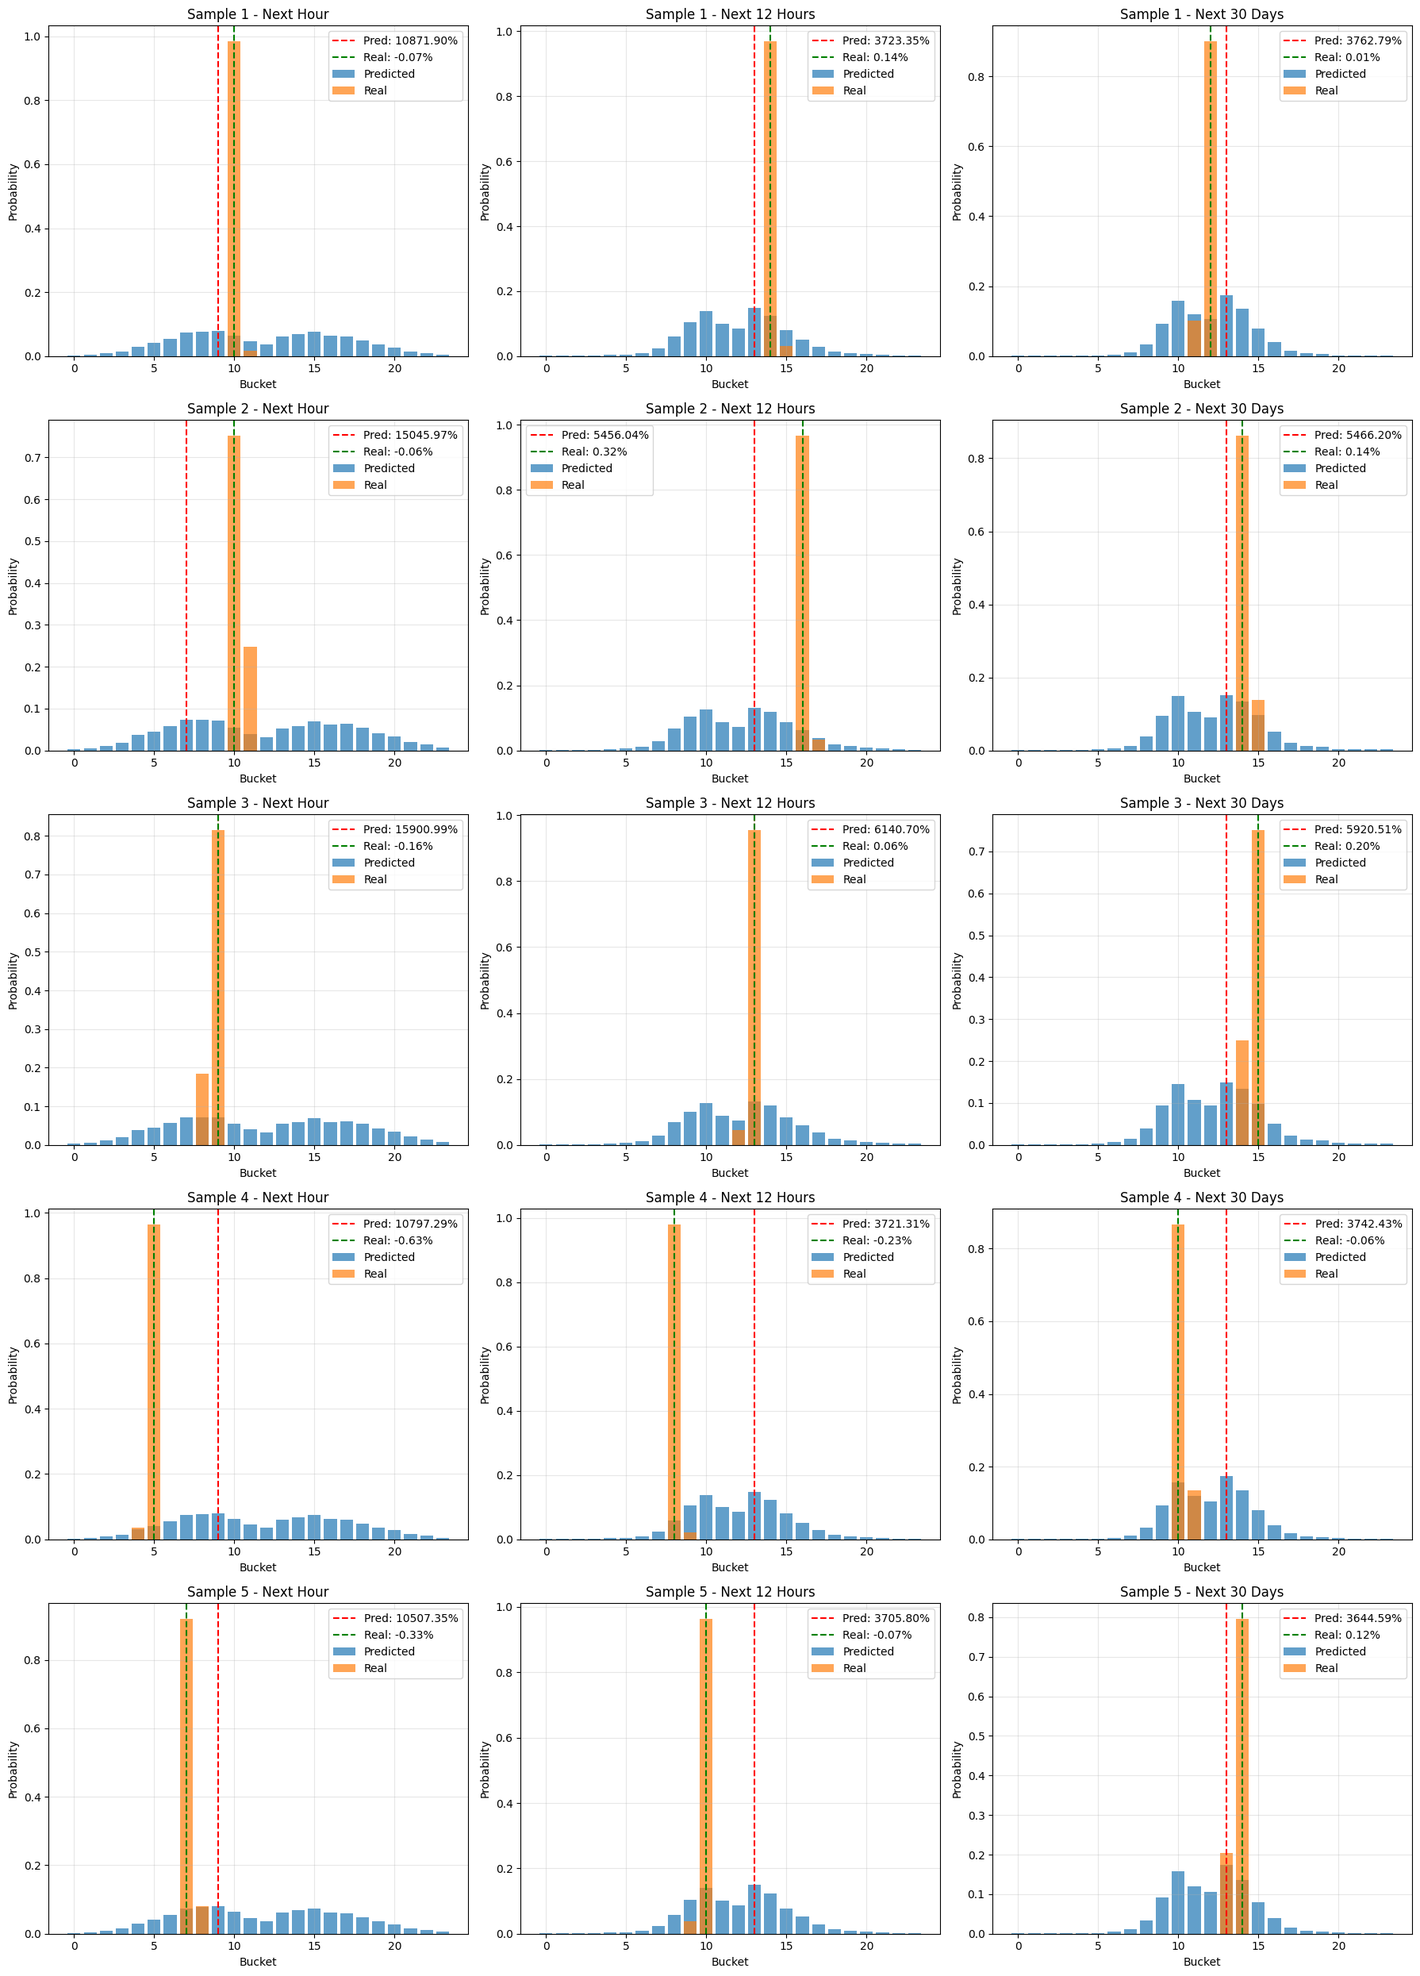
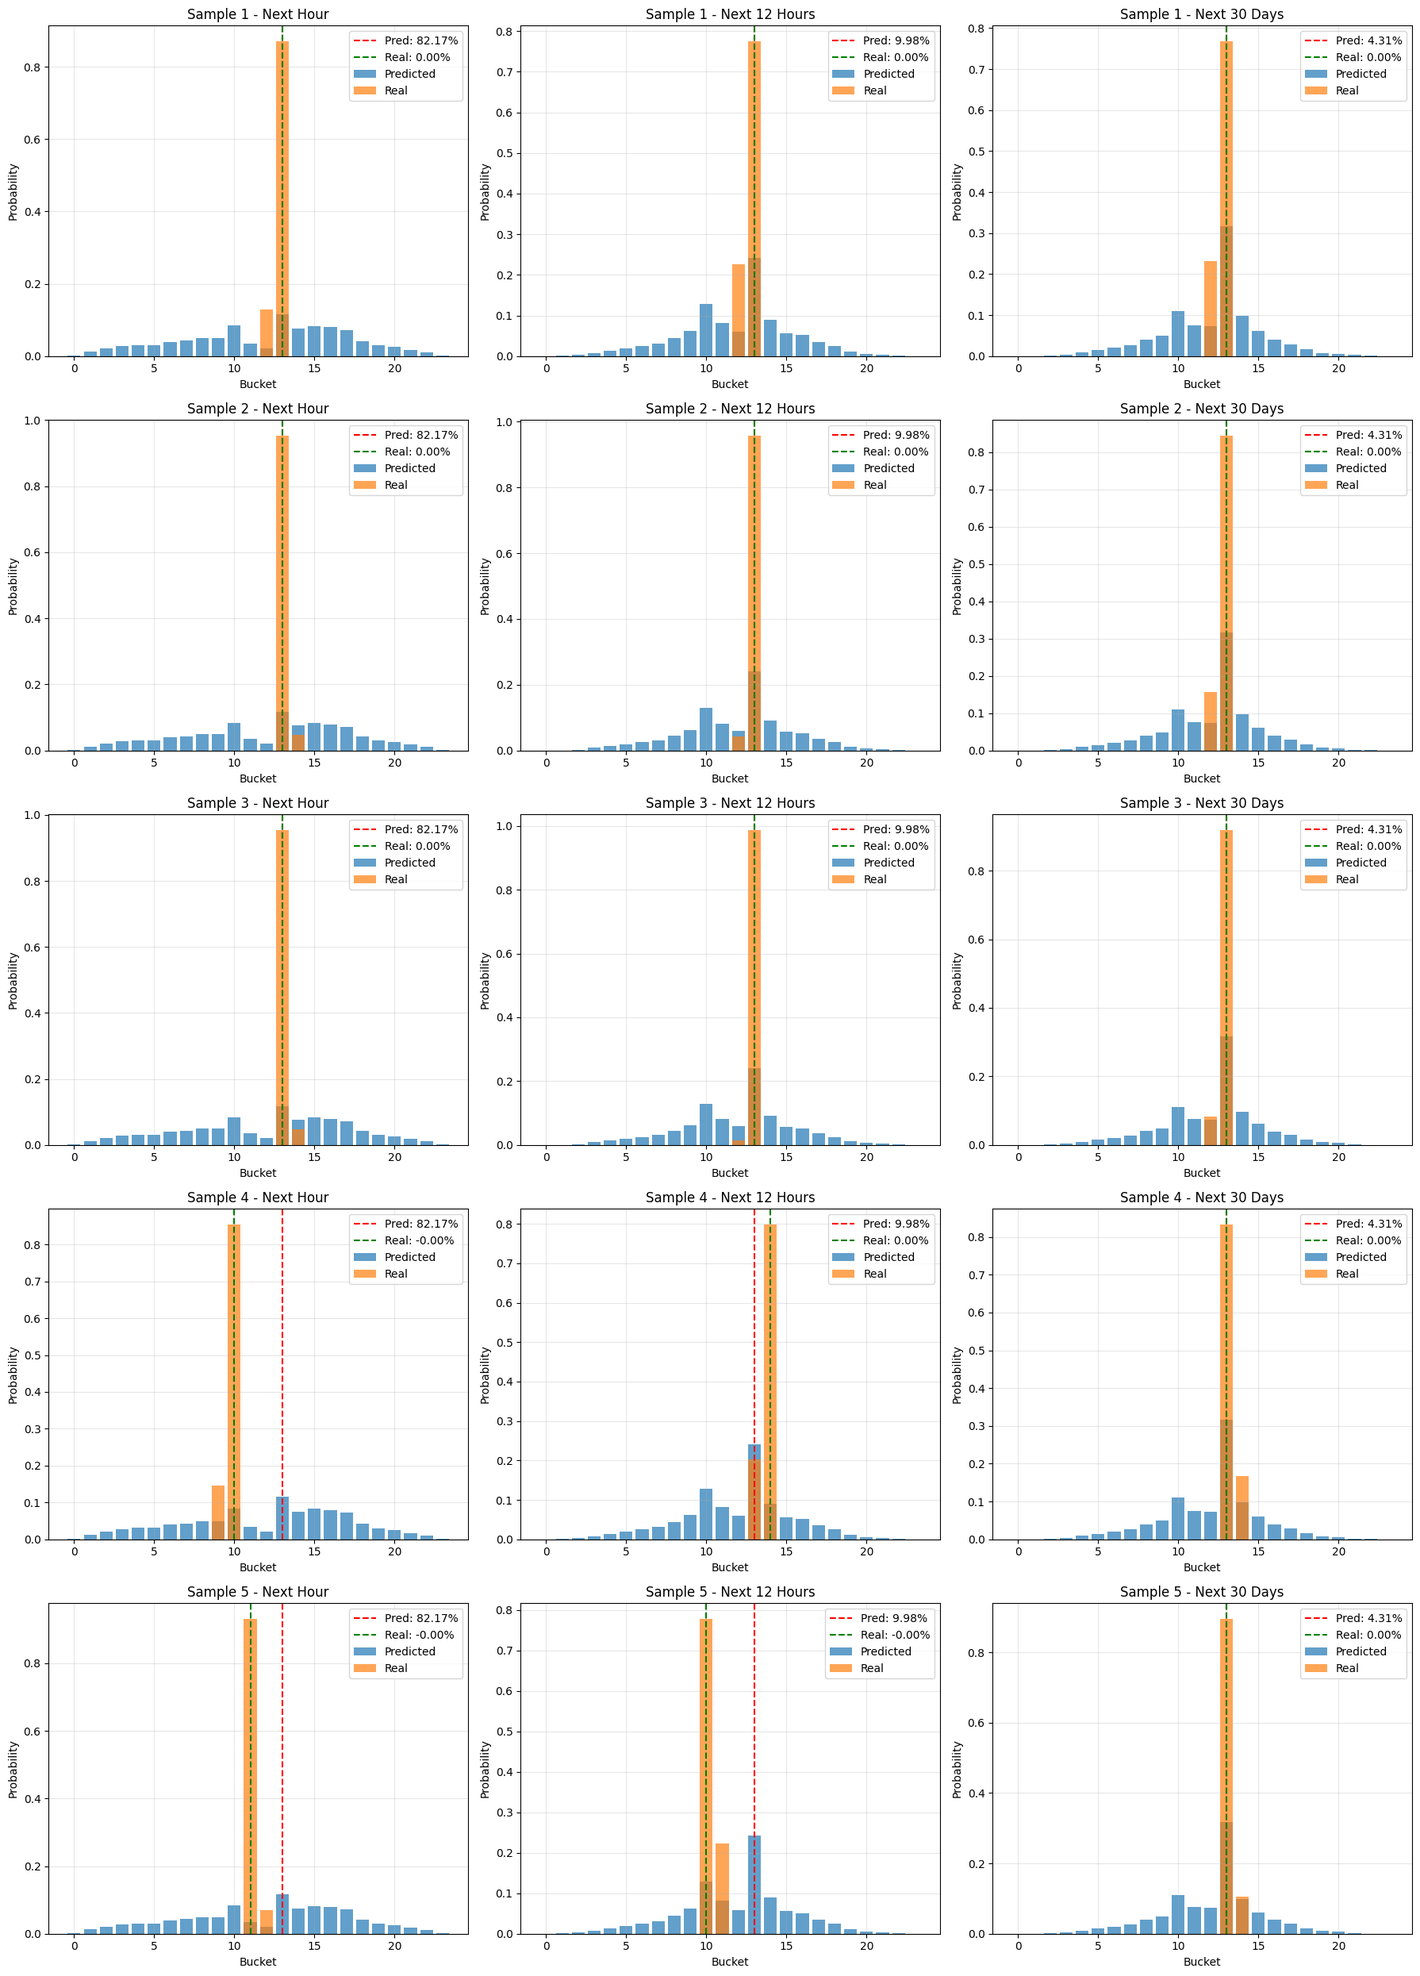
Refactor training set creation and model architecture for improved predictions and flexibility

diff --git a/newTradly/train.py b/newTradly/train.py
@@ -5,11 +5,24 @@ import numpy as np
 import wandb
 from wandb.integration.keras import WandbMetricsLogger, WandbModelCheckpoint
 from createTraningSet import create_training_set
-from params import WINDOW_SIZE, BATCH_SIZE, EPOCHS, LEARNING_RATE, NEXT_PRICE_PREDICTION, NEXT_PRICE_PREDICTION_1, NEXT_PRICE_PREDICTION_2, LSTM_LAYERS, DROPOUT_RATE, DENSE_ACTIVATION
-import json
+from params import WINDOW_SIZE, BATCH_SIZE, EPOCHS, LEARNING_RATE, LSTM_LAYERS, DROPOUT_RATE, MODEL
 import matplotlib.pyplot as plt
 
-def create_lstm_model(input_shape, num_buckets):
+gpus = tf.config.list_physical_devices('GPU')
+if gpus:
+    try:
+        for gpu in gpus:
+            tf.config.experimental.set_memory_growth(gpu, True)
+        
+        tf.config.set_logical_device_configuration(
+            gpus[0],
+            [tf.config.LogicalDeviceConfiguration(memory_limit=20480)]
+        )
+        print(f"GPU memory growth enabled for {len(gpus)} GPU(s)")
+    except RuntimeError as e:
+        print(f"GPU configuration error: {e}")
+
+def create_lstm_model(input_shape):
     inputs = keras.Input(shape=input_shape)
     
     x = inputs
@@ -18,24 +31,74 @@ def create_lstm_model(input_shape, num_buckets):
         x = layers.LSTM(units, return_sequences=return_sequences)(x)
         x = layers.Dropout(DROPOUT_RATE)(x)
     
-    output_next = layers.Dense(num_buckets, activation=DENSE_ACTIVATION, name='next')(x)
-    output_next_1 = layers.Dense(num_buckets, activation=DENSE_ACTIVATION, name='next_1')(x)
-    output_next_2 = layers.Dense(num_buckets, activation=DENSE_ACTIVATION, name='next_2')(x)
+    output_next = layers.Dense(1, name='next')(x)
+    output_half = layers.Dense(1, name='half')(x)
+    output_full = layers.Dense(1, name='full')(x)
     
-    model = keras.Model(inputs=inputs, outputs=[output_next, output_next_1, output_next_2])
+    model = keras.Model(inputs=inputs, outputs=[output_next, output_half, output_full])
     
     return model
 
-def distribution_to_value(distribution, bucket_config):
-    buckets = np.array(bucket_config['close']['buckets'])
-    bucket_centers = (buckets[:-1] + buckets[1:]) / 2
-    predicted_value = np.sum(distribution * bucket_centers)
-    return predicted_value
-
-def create_prediction_charts(model, X_test, y_test_next, y_test_next_1, y_test_next_2):
-    bucket_config = json.load(open('bucket_config.json'))
+def create_gru_model(input_shape):
+    inputs = keras.Input(shape=input_shape)
     
-    pred_next, pred_next_1, pred_next_2 = model.predict(X_test, verbose=0)
+    x = inputs
+    for i, units in enumerate(LSTM_LAYERS):
+        return_sequences = i < len(LSTM_LAYERS) - 1
+        x = layers.GRU(units, return_sequences=return_sequences)(x)
+        x = layers.Dropout(DROPOUT_RATE)(x)
+    
+    output_next = layers.Dense(1, name='next')(x)
+    output_half = layers.Dense(1, name='half')(x)
+    output_full = layers.Dense(1, name='full')(x)
+    
+    model = keras.Model(inputs=inputs, outputs=[output_next, output_half, output_full])
+    
+    return model
+
+def create_transformer_model(input_shape):
+    inputs = keras.Input(shape=input_shape)
+    
+    x = layers.Dense(LSTM_LAYERS[0])(inputs)
+    
+    for i, units in enumerate(LSTM_LAYERS):
+        num_heads = min(8, units // 64)
+        if num_heads < 1:
+            num_heads = 1
+        
+        attn_output = layers.MultiHeadAttention(
+            num_heads=num_heads,
+            key_dim=units // num_heads,
+            dropout=DROPOUT_RATE
+        )(x, x)
+        attn_output = layers.Dropout(DROPOUT_RATE)(attn_output)
+        x = layers.LayerNormalization(epsilon=1e-6)(x + attn_output)
+        
+        ffn = keras.Sequential([
+            layers.Dense(units * 4, activation='relu'),
+            layers.Dropout(DROPOUT_RATE),
+            layers.Dense(units)
+        ])
+        ffn_output = ffn(x)
+        ffn_output = layers.Dropout(DROPOUT_RATE)(ffn_output)
+        x = layers.LayerNormalization(epsilon=1e-6)(x + ffn_output)
+        
+        if i < len(LSTM_LAYERS) - 1:
+            x = layers.Dense(LSTM_LAYERS[i + 1])(x)
+    
+    x = layers.GlobalAveragePooling1D()(x)
+    x = layers.Dropout(DROPOUT_RATE)(x)
+    
+    output_next = layers.Dense(1, name='next')(x)
+    output_half = layers.Dense(1, name='half')(x)
+    output_full = layers.Dense(1, name='full')(x)
+    
+    model = keras.Model(inputs=inputs, outputs=[output_next, output_half, output_full])
+    
+    return model
+
+def create_prediction_charts(model, X_test, y_test_next, y_test_half, y_test_full):
+    pred_next, pred_half, pred_full = model.predict(X_test, verbose=0)
     
     num_samples = min(5, len(X_test))
     fig, axes = plt.subplots(num_samples, 3, figsize=(18, 5 * num_samples))
@@ -43,45 +106,19 @@ def create_prediction_charts(model, X_test, y_test_next, y_test_next_1, y_test_n
         axes = axes.reshape(1, -1)
     
     for sample_idx in range(num_samples):
-        pred_val_next = distribution_to_value(pred_next[sample_idx], bucket_config)
-        pred_val_next_1 = distribution_to_value(pred_next_1[sample_idx], bucket_config)
-        pred_val_next_2 = distribution_to_value(pred_next_2[sample_idx], bucket_config)
-        
-        real_val_next = distribution_to_value(y_test_next[sample_idx], bucket_config)
-        real_val_next_1 = distribution_to_value(y_test_next_1[sample_idx], bucket_config)
-        real_val_next_2 = distribution_to_value(y_test_next_2[sample_idx], bucket_config)
-        
-        buckets = np.array(bucket_config['close']['buckets'])
-        bucket_centers = (buckets[:-1] + buckets[1:]) / 2
-        
-        axes[sample_idx, 0].bar(range(len(pred_next[sample_idx])), pred_next[sample_idx], alpha=0.7, label='Predicted')
-        axes[sample_idx, 0].bar(range(len(y_test_next[sample_idx])), y_test_next[sample_idx], alpha=0.7, label='Real')
-        axes[sample_idx, 0].axvline(np.argmax(pred_next[sample_idx]), color='r', linestyle='--', label=f'Pred: {pred_val_next:.2f}%')
-        axes[sample_idx, 0].axvline(np.argmax(y_test_next[sample_idx]), color='g', linestyle='--', label=f'Real: {real_val_next:.2f}%')
-        axes[sample_idx, 0].set_title(f'Sample {sample_idx + 1} - Next Hour')
-        axes[sample_idx, 0].set_xlabel('Bucket')
-        axes[sample_idx, 0].set_ylabel('Probability')
-        axes[sample_idx, 0].legend()
+        axes[sample_idx, 0].bar(['Predicted', 'Real'], [pred_next[sample_idx][0], y_test_next[sample_idx]], alpha=0.7)
+        axes[sample_idx, 0].set_title(f'Sample {sample_idx + 1} - Next Value')
+        axes[sample_idx, 0].set_ylabel('Cumsum Price Change')
         axes[sample_idx, 0].grid(True, alpha=0.3)
         
-        axes[sample_idx, 1].bar(range(len(pred_next_1[sample_idx])), pred_next_1[sample_idx], alpha=0.7, label='Predicted')
-        axes[sample_idx, 1].bar(range(len(y_test_next_1[sample_idx])), y_test_next_1[sample_idx], alpha=0.7, label='Real')
-        axes[sample_idx, 1].axvline(np.argmax(pred_next_1[sample_idx]), color='r', linestyle='--', label=f'Pred: {pred_val_next_1:.2f}%')
-        axes[sample_idx, 1].axvline(np.argmax(y_test_next_1[sample_idx]), color='g', linestyle='--', label=f'Real: {real_val_next_1:.2f}%')
-        axes[sample_idx, 1].set_title(f'Sample {sample_idx + 1} - Next 12 Hours')
-        axes[sample_idx, 1].set_xlabel('Bucket')
-        axes[sample_idx, 1].set_ylabel('Probability')
-        axes[sample_idx, 1].legend()
+        axes[sample_idx, 1].bar(['Predicted', 'Real'], [pred_half[sample_idx][0], y_test_half[sample_idx]], alpha=0.7)
+        axes[sample_idx, 1].set_title(f'Sample {sample_idx + 1} - Half Window')
+        axes[sample_idx, 1].set_ylabel('Cumsum Price Change')
         axes[sample_idx, 1].grid(True, alpha=0.3)
         
-        axes[sample_idx, 2].bar(range(len(pred_next_2[sample_idx])), pred_next_2[sample_idx], alpha=0.7, label='Predicted')
-        axes[sample_idx, 2].bar(range(len(y_test_next_2[sample_idx])), y_test_next_2[sample_idx], alpha=0.7, label='Real')
-        axes[sample_idx, 2].axvline(np.argmax(pred_next_2[sample_idx]), color='r', linestyle='--', label=f'Pred: {pred_val_next_2:.2f}%')
-        axes[sample_idx, 2].axvline(np.argmax(y_test_next_2[sample_idx]), color='g', linestyle='--', label=f'Real: {real_val_next_2:.2f}%')
-        axes[sample_idx, 2].set_title(f'Sample {sample_idx + 1} - Next 30 Days')
-        axes[sample_idx, 2].set_xlabel('Bucket')
-        axes[sample_idx, 2].set_ylabel('Probability')
-        axes[sample_idx, 2].legend()
+        axes[sample_idx, 2].bar(['Predicted', 'Real'], [pred_full[sample_idx][0], y_test_full[sample_idx]], alpha=0.7)
+        axes[sample_idx, 2].set_title(f'Sample {sample_idx + 1} - Full Window')
+        axes[sample_idx, 2].set_ylabel('Cumsum Price Change')
         axes[sample_idx, 2].grid(True, alpha=0.3)
     
     plt.tight_layout()
@@ -99,30 +136,39 @@ def train():
             "batch_size": BATCH_SIZE,
             "epochs": EPOCHS,
             "learning_rate": LEARNING_RATE,
-            "architecture": "LSTM",
-            "optimizer": "adam"
+            "architecture": MODEL,
+            "optimizer": "adamw",
+            "layers": LSTM_LAYERS,
+            "dropout_rate": DROPOUT_RATE
         }
     )
     
     print("Generating training data...")
-    X_train, (y_next, y_next_1, y_next_2) = create_training_set(100_000, 15_000)
+    X_train, (y_next, y_half, y_full) = create_training_set(25_000, 5_000)
     print(f"Training data shape: {X_train.shape}")
-    print(f"Target shapes: {y_next.shape}, {y_next_1.shape}, {y_next_2.shape}")
+    print(f"Target shapes: {y_next.shape}, {y_half.shape}, {y_full.shape}")
     
     print("\nGenerating validation data...")
-    X_val, (y_val_next, y_val_next_1, y_val_next_2) = create_training_set(2000, 20)
+    X_val, (y_val_next, y_val_half, y_val_full) = create_training_set(2000, 20)
     
-    num_buckets = y_next.shape[1]
     input_shape = (WINDOW_SIZE, 5)
     
-    print(f"\nCreating model with input shape {input_shape} and {num_buckets} buckets...")
-    model = create_lstm_model(input_shape, num_buckets)
+    print(f"\nCreating {MODEL} model with input shape {input_shape}...")
     
-    optimizer = keras.optimizers.Adam(learning_rate=LEARNING_RATE)
+    if MODEL == "LSTM":
+        model = create_lstm_model(input_shape)
+    elif MODEL == "GRU":
+        model = create_gru_model(input_shape)
+    elif MODEL == "Transformer":
+        model = create_transformer_model(input_shape)
+    else:
+        raise ValueError(f"Unknown model type: {MODEL}")
+    
+    optimizer = keras.optimizers.AdamW(learning_rate=LEARNING_RATE)
     model.compile(
         optimizer=optimizer,
-        loss={'next': 'categorical_crossentropy', 'next_1': 'categorical_crossentropy', 'next_2': 'categorical_crossentropy'},
-        metrics={'next': ['accuracy'], 'next_1': ['accuracy'], 'next_2': ['accuracy']}
+        loss={'next': 'mse', 'half': 'mse', 'full': 'mse'},
+        metrics={'next': ['mae'], 'half': ['mae'], 'full': ['mae']}
     )
     
     model.summary()
@@ -146,8 +192,8 @@ def train():
     print("\nStarting training...")
     history = model.fit(
         X_train,
-        {'next': y_next, 'next_1': y_next_1, 'next_2': y_next_2},
-        validation_data=(X_val, {'next': y_val_next, 'next_1': y_val_next_1, 'next_2': y_val_next_2}),
+        {'next': y_next, 'half': y_half, 'full': y_full},
+        validation_data=(X_val, {'next': y_val_next, 'half': y_val_half, 'full': y_val_full}),
         batch_size=BATCH_SIZE,
         epochs=EPOCHS,
         callbacks=callbacks,
@@ -158,7 +204,7 @@ def train():
     print("\nTraining complete. Model saved.")
     
     print("\nGenerating prediction charts...")
-    create_prediction_charts(model, X_val, y_val_next, y_val_next_1, y_val_next_2)
+    create_prediction_charts(model, X_val, y_val_next, y_val_half, y_val_full)
     
     wandb.finish()
 

diff --git a/newTradly/createTraningSet.py b/newTradly/createTraningSet.py
@@ -1,55 +1,13 @@
 import json
 import numpy as np
 import os
-from params import WINDOW_SIZE, NEXT_PRICE_PREDICTION, NEXT_PRICE_PREDICTION_1, NEXT_PRICE_PREDICTION_2
-
-def import_bucket_config(file_path='bucket_config.json'):
-    with open(file_path, 'r') as f:
-        bucket_config = json.load(f)
-    return bucket_config
-
-def value_to_distribution(value, buckets):
-    num_buckets = len(buckets) - 1
-    distribution = np.zeros(num_buckets)
-    
-    bucket_idx = np.digitize(value, buckets) - 1
-    bucket_idx = np.clip(bucket_idx, 0, num_buckets - 1)
-    
-    if bucket_idx == 0:
-        lower_bound = buckets[0]
-        upper_bound = buckets[1]
-    elif bucket_idx == num_buckets - 1:
-        lower_bound = buckets[-2]
-        upper_bound = buckets[-1]
-    else:
-        lower_bound = buckets[bucket_idx]
-        upper_bound = buckets[bucket_idx + 1]
-    
-    bucket_range = upper_bound - lower_bound
-    if bucket_range > 0:
-        position = (value - lower_bound) / bucket_range
-        position = np.clip(position, 0, 1)
-    else:
-        position = 0.5
-    
-    distribution[bucket_idx] = 1.0 - abs(position - 0.5) * 0.5
-    
-    if position < 0.5 and bucket_idx > 0:
-        distribution[bucket_idx - 1] = abs(position - 0.5) * 0.5
-    elif position > 0.5 and bucket_idx < num_buckets - 1:
-        distribution[bucket_idx + 1] = abs(position - 0.5) * 0.5
-    
-    distribution = distribution / distribution.sum()
-    
-    return distribution
+from params import WINDOW_SIZE
 
 def create_training_set(number_of_samples: int, number_of_files: int):
-    bucket_config = import_bucket_config()
-    
     X_samples = []
     y_next = []
-    y_next_1 = []
-    y_next_2 = []
+    y_half = []
+    y_full = []
     
     file_list = [f for f in os.listdir('tickerData') if f.endswith('.json')]
     samples_per_file = number_of_samples // number_of_files
@@ -81,12 +39,12 @@ def create_training_set(number_of_samples: int, number_of_files: int):
         low_prices = low_prices[:min_len]
         volume_data = volume_data[:min_len]
         
-        min_length = WINDOW_SIZE + NEXT_PRICE_PREDICTION_2
+        min_length = WINDOW_SIZE * 2
         if min_len < min_length:
             continue
         
         files_processed += 1
-        max_start_index = min_len - WINDOW_SIZE - NEXT_PRICE_PREDICTION_2
+        max_start_index = min_len - WINDOW_SIZE * 2
         
         if max_start_index <= 0:
             continue
@@ -104,37 +62,31 @@ def create_training_set(number_of_samples: int, number_of_files: int):
             X_sample = np.stack([x_close, x_open, x_high, x_low, x_volume], axis=-1)
             X_samples.append(X_sample)
             
-            y_sum = close_prices[end_index:end_index + NEXT_PRICE_PREDICTION].sum()
-            y_sum_1 = close_prices[end_index:end_index + int(NEXT_PRICE_PREDICTION_1)].sum()
-            y_sum_2 = close_prices[end_index:end_index + int(NEXT_PRICE_PREDICTION_2)].sum()
+            half_window = WINDOW_SIZE // 2
             
-            y_normalized = y_sum / NEXT_PRICE_PREDICTION
-            y_normalized_1 = y_sum_1 / NEXT_PRICE_PREDICTION_1
-            y_normalized_2 = y_sum_2 / NEXT_PRICE_PREDICTION_2
+            y_next_val = close_prices[end_index:end_index + 1].sum()
+            y_half_val = close_prices[end_index:end_index + half_window].sum()
+            y_full_val = close_prices[end_index:end_index + WINDOW_SIZE].sum()
             
-            y_dist = value_to_distribution(y_normalized, bucket_config['close']['buckets'])
-            y_dist_1 = value_to_distribution(y_normalized_1, bucket_config['close']['buckets'])
-            y_dist_2 = value_to_distribution(y_normalized_2, bucket_config['close']['buckets'])
-            
-            y_next.append(y_dist)
-            y_next_1.append(y_dist_1)
-            y_next_2.append(y_dist_2)
+            y_next.append(y_next_val)
+            y_half.append(y_half_val)
+            y_full.append(y_full_val)
     
     X = np.array(X_samples)
     y_next = np.array(y_next)
-    y_next_1 = np.array(y_next_1)
-    y_next_2 = np.array(y_next_2)
+    y_half = np.array(y_half)
+    y_full = np.array(y_full)
     
-    return X, (y_next, y_next_1, y_next_2)
+    return X, (y_next, y_half, y_full)
 
 if __name__ == "__main__":
-    X, (y_next, y_next_1, y_next_2) = create_training_set(128, 10)
+    X, (y_next, y_half, y_full) = create_training_set(128, 10)
     print("X shape:", X.shape)
     print("y_next shape:", y_next.shape)
-    print("y_next_1 shape:", y_next_1.shape)
-    print("y_next_2 shape:", y_next_2.shape)
-
+    print("y_half shape:", y_half.shape)
+    print("y_full shape:", y_full.shape)
     print("\nFirst X sample shape:", X[0].shape)
-    print("First y_next distribution:", y_next[0])
-    print("Sum of first y_next distribution:", y_next[0].sum())
+    print("First y_next:", y_next[0])
+    print("First y_half:", y_half[0])
+    print("First y_full:", y_full[0])
 

diff --git a/newTradly/params.py b/newTradly/params.py
@@ -3,11 +3,14 @@ WINDOW_SIZE = LOOKBACK_DAYS * 24
 NEXT_PRICE_PREDICTION = 24
 NEXT_PRICE_PREDICTION_1 = 24 * (LOOKBACK_DAYS / 2)
 NEXT_PRICE_PREDICTION_2 = 24 * LOOKBACK_DAYS
-BATCH_SIZE = 64
+BATCH_SIZE = 32
 EPOCHS = 10
 LEARNING_RATE = 0.001
 
-LSTM_LAYERS = [4096,2048,1024,256,128, 64, 32]
+MODELS = ["LSTM", "GRU", "Transformer"]
+
+MODEL = MODELS[2]
+LSTM_LAYERS = [2048,1048,1048,1048,512, 64, 32]
 DROPOUT_RATE = 0.2
 DENSE_ACTIVATION = 'softmax'
 
